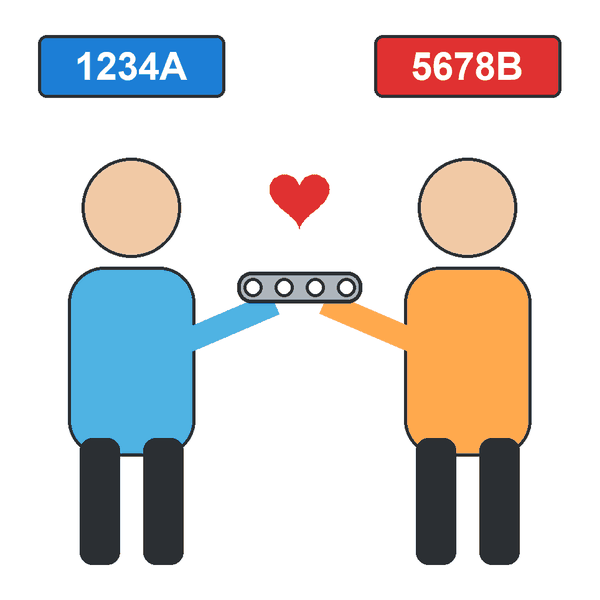
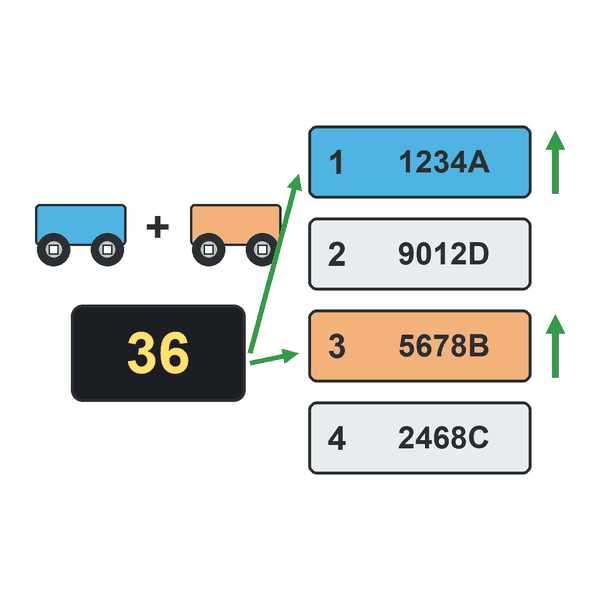
Coopertition: the VEX IQ match model (shared alliance score, then rankings), with a new picture

diff --git a/tools/diagrams.py b/tools/diagrams.py
@@ -2756,19 +2756,22 @@ def ratchet_and_pawl():
 
 
 def coopertition():
-    """Two teams helping each other at the pits: one hands the other a part."""
+    """One shared alliance score lifts both partners up the rankings."""
     im, d = canvas()
-    person(d, 330, 1060, 1.45, "#4fb3e3")
-    person(d, 870, 1060, 1.45, "#ffa94d")
-    plate(d, 330, 260, "1234A", 300, 100, "#1c7ed6")
-    plate(d, 870, 260, "5678B", 300, 100, "#e03131")
-    d.line((420, 700, 560, 640), fill="#4fb3e3", width=40)   # arms reaching to each other
-    d.line((780, 700, 640, 640), fill="#ffa94d", width=40)
-    beam(d, 500, 590, 4, 1, 50, "#adb5bd")                   # the shared part
-    k = 3.0
-    pts = [(600 + k * 16 * math.sin(t) ** 3, 470 - k * (13 * math.cos(t) - 5 * math.cos(2 * t) - 2 * math.cos(3 * t) - math.cos(4 * t)))
-           for t in [i * 2 * math.pi / 120 for i in range(120)]]
-    d.polygon(pts, fill="#e03131")
+    mini_robot(d, 170, 520, 0.85, "#4fb3e3")
+    mini_robot(d, 490, 520, 0.85, "#f3b27a")
+    text(d, (330, 440), "+", 90, True, DARK)
+    scoreboard(d, 150, 600, 510, 800, "36")
+    for i, (team, c, hi) in enumerate([("1234A", "#4fb3e3", True), ("9012D", "#e9ecef", False),
+                                        ("5678B", "#f3b27a", True), ("2468C", "#e9ecef", False)]):
+        y = 230 + i * 190
+        d.rounded_rectangle((640, y, 1100, y + 150), radius=18, fill=c, outline=EDGE, width=6)
+        text(d, (700, y + 75), str(i + 1), 70, True, DARK)
+        text(d, (920, y + 75), team, 64, True, DARK)
+        if hi:
+            arrow(d, 1150, y + 140, 1150, y + 10, GREEN, 14, 44)
+    arrow(d, 520, 700, 620, 330, GREEN, 10, 36)
+    arrow(d, 520, 720, 620, 700, GREEN, 10, 36)
     return im
 
 

diff --git a/PLAN.md b/PLAN.md
@@ -179,7 +179,7 @@ VEX IQ note: Teamwork Challenge is **cooperative** (two teams working together),
 - Current season game name and elements (for SEASON domain).
 - Who reviews the Chinese?
 - Content license (e.g. CC BY-NC-SA 4.0) — matters if other teachers reuse it.
-- Classroom terms (tag `local`, no `ref_url`): in-school competition, boxed beam (I/C/T-beam technique), ladder chassis, sandwich chassis, coopertition (a FIRST Robotics word; VEX says "cooperation and friendly competition"). VEX has no name for these; VEX's own nearby terms are layering (IQ Beams and Plates article) and box structure (V5 chassis articles).
+- Classroom terms (tag `local`, no `ref_url`): in-school competition, boxed beam (I/C/T-beam technique), ladder chassis, sandwich chassis, coopertition (the VEX IQ match model: shared alliance score, then individual rankings; the word itself is from FIRST Robotics). VEX has no name for these; VEX's own nearby terms are layering (IQ Beams and Plates article) and box structure (V5 chassis articles).
 - EDP and COMP: evaluate holistically before calling them done — the current terms are only the ones that came up in the VEX IQ engineering sources. Check against the game manual and the GRSF library (VEX's competition foundation): glossary, award descriptions, notebook and interview rubrics.
 - COMP/EDP Chinese for the new terms (award names, event tiers, notebook terms) is unofficial: check against VEX China event materials, e.g. 全能奖 (Excellence), 思维奖 (Think), 惊艳奖 (Amaze), 选拔赛 (qualifying event), 锦标赛 (Championship Event), 排位赛 (qualification match), 晋级名额 (qualifying spot).
 - ENG Chinese is all unofficial (no VEX Chinese source found for mechanism names): check especially 操作机构, 被动/主动机构, 搜集器 (intake, from the store's Intake Flap name), 双反四连杆, 链条连杆臂, 级联升降, 剪叉升降, 投石器, 支撑面积 (footprint), 手动控制 / 自动, 坦克模式 / 街机模式, 开关控制. EDP/COMP: 操作手 (driver), 维修区 (pit), 队号牌, 团队协作挑战赛, 联盟队友, 评委.
